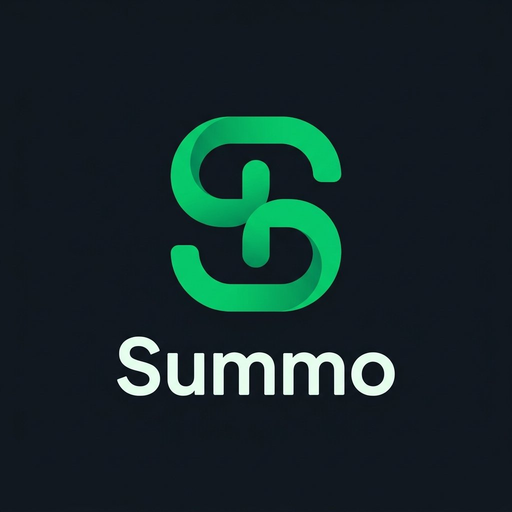
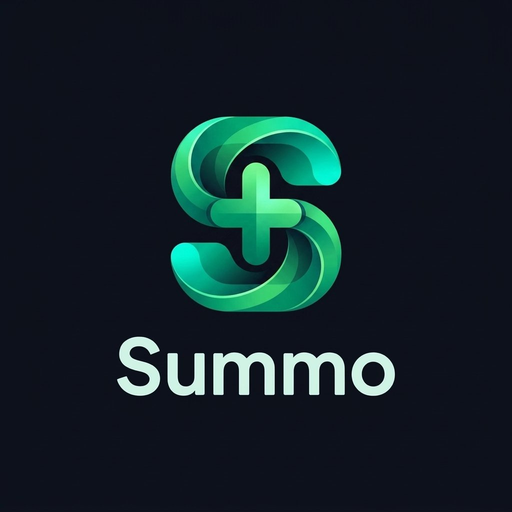
Actualizar logotipo oficial Summo S+ 3D e íconos PWA (#0D111C)

diff --git a/index.html b/index.html
@@ -6,7 +6,7 @@
 <meta name="apple-mobile-web-app-capable" content="yes">
 <meta name="apple-mobile-web-app-status-bar-style" content="black-translucent">
 <meta name="apple-mobile-web-app-title" content="Summo">
-<meta name="theme-color" content="#11181E">
+<meta name="theme-color" content="#0D111C">
 <link rel="manifest" href="manifest.json">
 <link rel="apple-touch-icon" href="icon.png">
 <link rel="icon" type="image/png" href="icon.png">

diff --git a/README.md b/README.md
@@ -41,7 +41,7 @@
 ### 4. 🎨 Identidad Visual y Marca: "Summo"
 - **Concepto**: Del latín *summo / summa* (*sumatoria, totalidad y punto más alto*), integrando visualización analítica y control de flujo financiero.
 - **Activos Gráficos**:
-  - `logo.png` / `icon.png` (`512x512`): Isotipo oficial "S" entrelazado en verde esmeralda sobre fondo oscuro `#11181E`.
+  - `logo.png` / `icon.png` (`512x512`): Isotipo oficial "S+" entrelazado en verde esmeralda/turquesa 3D sobre fondo oscuro `#0D111C`.
   - `icon-192.png` (`192x192`): Ícono optimizado para instalación PWA en dispositivos móviles.
   - `brand-summo.png`: Logotipo completo con marca tipográfica oficial.
 
